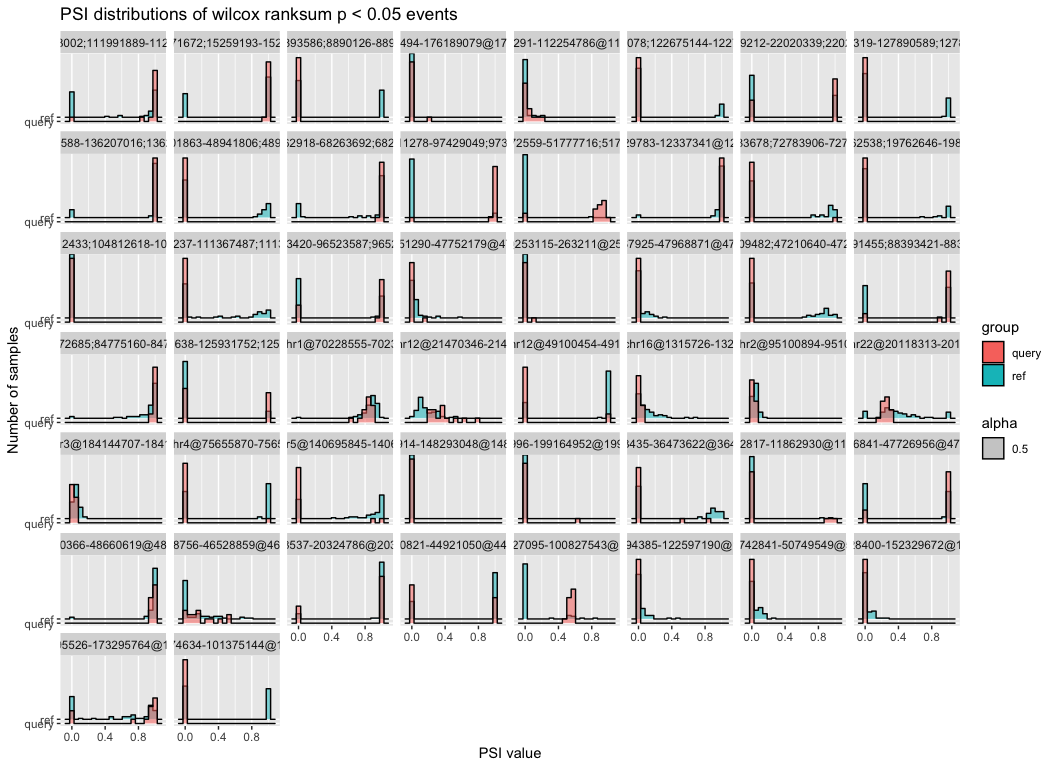
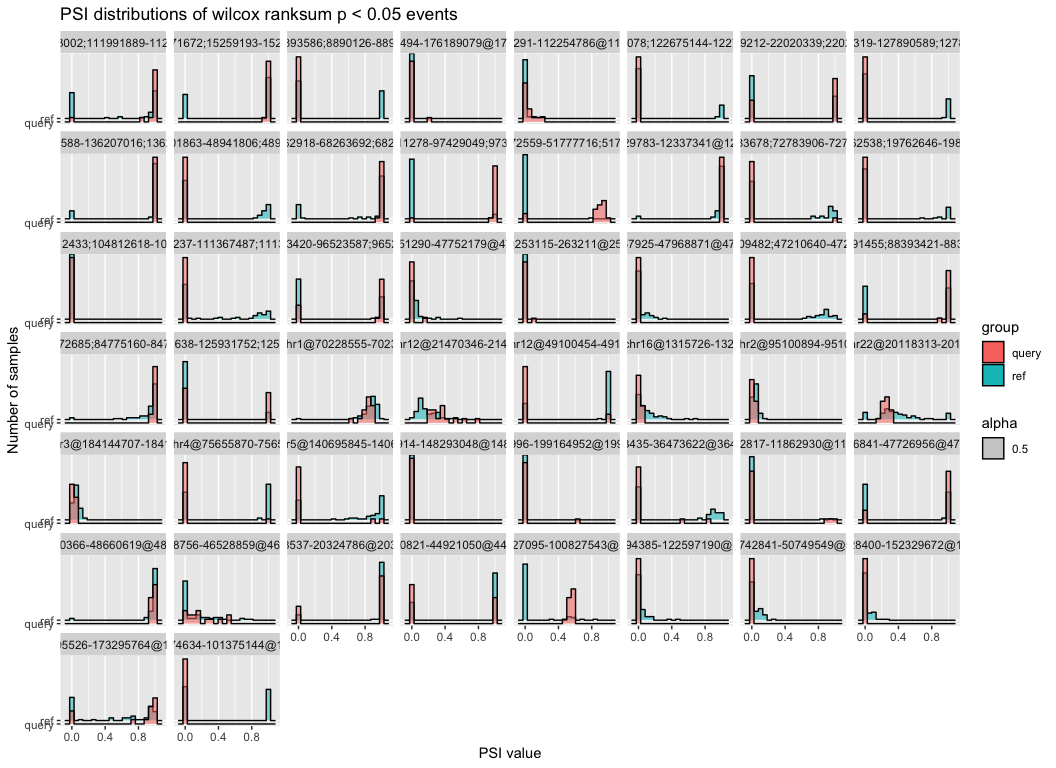
update plots

diff --git a/exploration/compare_psi_distributions/test-wilcoxon-on-target.md b/exploration/compare_psi_distributions/test-wilcoxon-on-target.md
@@ -161,7 +161,7 @@ long_fail_wilcox <- fail_wilcox_test_events |>
     group = stringr::str_split_i(sample, "_", i = 3))
 
 ggplot(long_fail_wilcox, aes(x = PSI, y = group, fill = group, alpha = 0.5)) +
-  ggridges::geom_ridgeline(stat = "binline", bins = 20, scale = 0.8) + 
+  ggridges::geom_ridgeline(stat = "binline", bins = 20, scale = 1) + 
   facet_wrap(~ pos_id) + 
   labs(title = "PSI distributions of wilcox ranksum p >= 0.05 events",
        x = "PSI value",
@@ -199,7 +199,7 @@ long_succeed_wilcox <- succeed_wilcox_test_events |>
     group = stringr::str_split_i(sample, "_", i = 3))
 
 ggplot(long_succeed_wilcox, aes(x = PSI, y = group, fill = group, alpha = 0.5)) +
-  ggridges::geom_ridgeline(stat = "binline", bins = 20, scale = 0.8) + 
+  ggridges::geom_ridgeline(stat = "binline", bins = 20, scale = 1) + 
   facet_wrap(~ pos_id) + 
   labs(title = "PSI distributions of wilcox ranksum p < 0.05 events",
        x = "PSI value",
